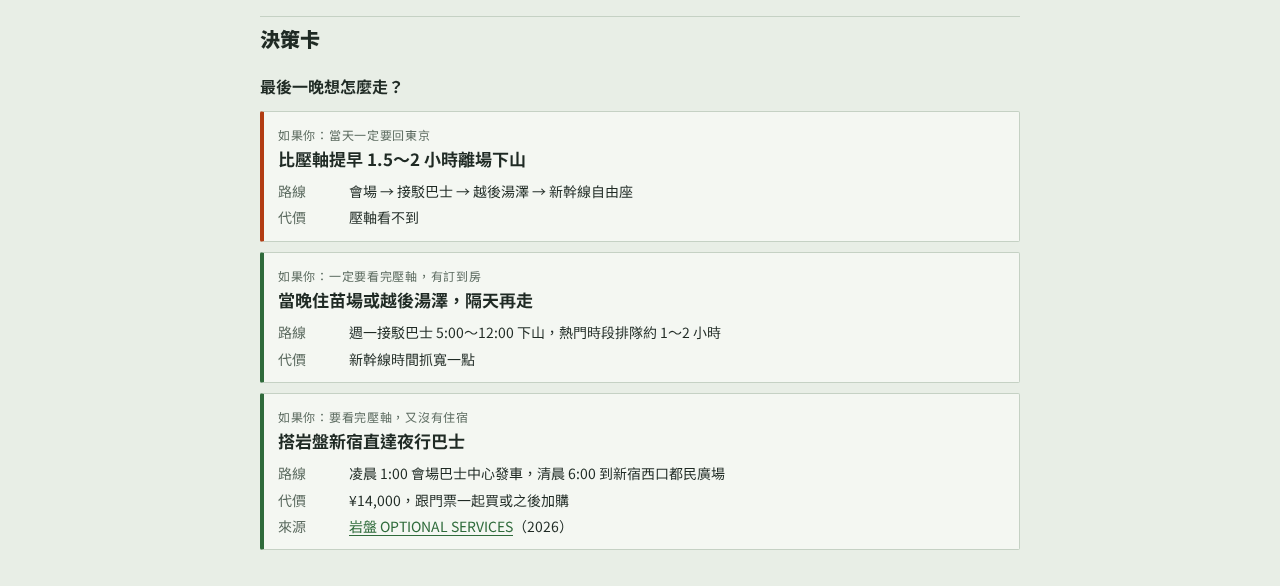
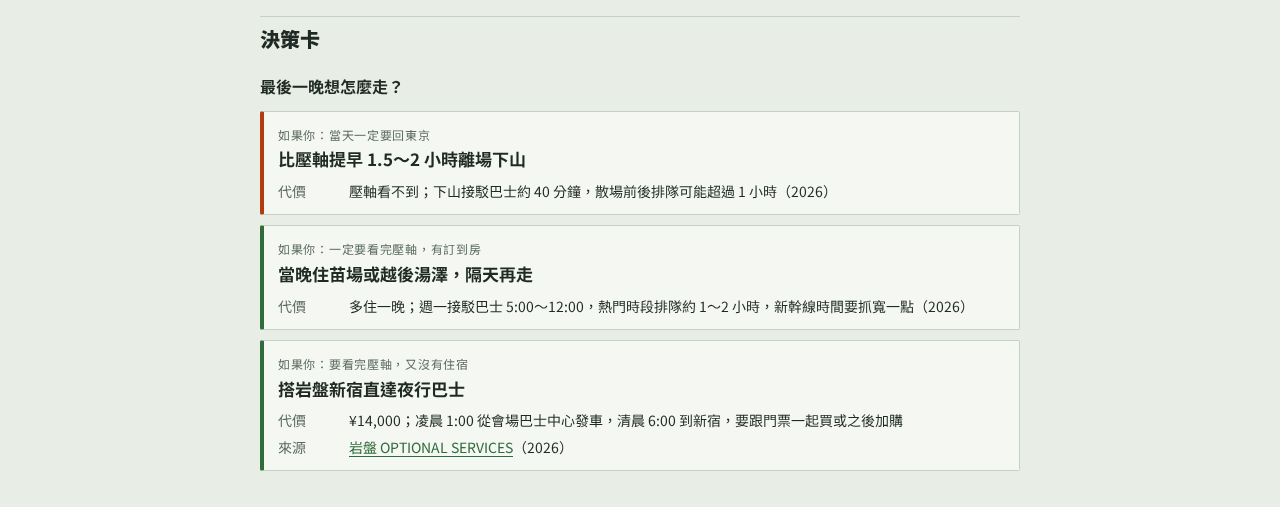
富士搖滾決策卡固定四欄（如果你／怎麼做／代價／來源），naeba-food 寬表格不轉卡片

Changed region(s): [[0.1875, 0.0296, 0.7812, 0.6509], [0.2188, 0.6805, 0.7812, 0.9467]]

diff --git a/docs/frf-rewrite/components.md b/docs/frf-rewrite/components.md
@@ -74,30 +74,39 @@ Notion「標題列」開不開都可以。
 讀者要「選一個」的地方用這個：住哪裡、怎麼回程、要不要買某樣東西。
 取代「好處／要有心理準備／怎麼訂」這種一層包一層的條列。
 
-**欄位**：
+**固定四欄**，表頭一定是這四個（Gina 定案，2026-10-18）：
 
-- 第一欄：如果你是什麼情況（網站會在前面加「如果你：」，所以不用自己寫）。
-- 第二欄：怎麼做。一句話，網站會放大加粗，是卡片的標題。
-- 第三欄以後：自己取欄位名稱，例如「路線」「代價」「要花多少」「怎麼訂」「來源」。空格不會印出來。
-- 記號後面的文字（例如「最後一晚想怎麼走？」）會變成卡片上方的問題。
+| 欄位 | 寫什麼 | 網站上顯示成 |
+| --- | --- | --- |
+| 🧭 如果你 | 讀者的情況，例如「當天一定要回東京」 | 卡片上方的小字「如果你：……」（不用自己寫「如果你」） |
+| 怎麼做 | 一句話的做法 | 卡片標題，放大加粗 |
+| 代價 | 要多花的錢、時間，或會錯過什麼 | 卡片裡的「代價」 |
+| 來源 | 官方連結＋年份，例如「岩盤 OPTIONAL SERVICES（2026）」 | 卡片裡的「來源」 |
 
-**紅色卡片**：第一欄開頭加 `⚠`，這張卡會變成紅色邊框。只用在「不照做會多花錢、會趕不上車」的選項。
+- 第一格的記號後面可以接一個問題，例如「🧭 如果你：最後一晚想怎麼走？」，問題會印在卡片上方。
+- **空格那一項在這張卡上不顯示**。例如沒有官方來源，「來源」空著就好。
+- **紅色卡片**：「如果你」那格開頭加 `⚠`，這張卡會變成紅色邊框。只用在「不照做會多花錢、會趕不上車」的選項。
+- 欄位照表頭名稱對應，四欄的順序寫錯也認得，但請照上面的順序寫，比較好檢查。
+- 標準就是這四欄。如果多加了其他名稱的欄位（例如「路線」），網站還是會顯示（排在代價和來源中間），但請盡量把內容併進「怎麼做」或「代價」。
 
 **Notion 裡這樣寫：**
 
-| 🧭 如果你：最後一晚想怎麼走？ | 怎麼做 | 路線 | 代價 | 來源 |
-| --- | --- | --- | --- | --- |
-| ⚠ 當天一定要回東京 | 比壓軸提早 1.5～2 小時離場下山 | 會場 → 接駁巴士 → 越後湯澤 → 新幹線自由座 | 壓軸看不到 | |
-| 一定要看完壓軸，有訂到房 | 當晚住苗場或越後湯澤，隔天再走 | 週一接駁巴士 5:00～12:00 下山，熱門時段排隊約 1～2 小時 | 新幹線時間抓寬一點 | |
-| 要看完壓軸，又沒有住宿 | 搭岩盤新宿直達夜行巴士 | 凌晨 1:00 會場巴士中心發車，清晨 6:00 到新宿西口都民廣場 | ¥14,000，跟門票一起買或之後加購 | 岩盤 OPTIONAL SERVICES（2026） |
+| 🧭 如果你：最後一晚想怎麼走？ | 怎麼做 | 代價 | 來源 |
+| --- | --- | --- | --- |
+| ⚠ 當天一定要回東京 | 比壓軸提早 1.5～2 小時離場下山 | 壓軸看不到；下山接駁巴士約 40 分鐘，散場前後排隊可能超過 1 小時（2026） | |
+| 一定要看完壓軸，有訂到房 | 當晚住苗場或越後湯澤，隔天再走 | 多住一晚；週一接駁巴士 5:00～12:00，熱門時段排隊約 1～2 小時，新幹線時間要抓寬一點（2026） | |
+| 要看完壓軸，又沒有住宿 | 搭岩盤新宿直達夜行巴士 | ¥14,000；凌晨 1:00 從會場巴士中心發車，清晨 6:00 到新宿，要跟門票一起買或之後加購 | 岩盤 OPTIONAL SERVICES（2026） |
+
+「來源」那格的名稱要做成 Notion 連結。
 
 **寫作提醒**
 
 - 一張決策卡兩到四個選項。超過四個，先想想是不是兩個問題混在一起。
-- 每個選項都寫「代價」或「要注意」，讀者才知道取捨在哪。
-- 各欄位的名稱在每張卡都一樣，讀者滑過去就能比較。
+- 「怎麼做」一句話就好，細節放「代價」。
+- 每個選項都寫「代價」，讀者才知道取捨在哪。
+- 代價裡的金額、時刻一樣附年份。
 
-截圖：`screenshots/layout/11-choice-cards-after-mobile.png`
+截圖：`screenshots/layout/11-choice-cards-after-mobile.png`、`screenshots/layout/11-choice-cards-after-desktop.png`
 
 ---
 
@@ -144,6 +153,10 @@ Notion「標題列」開不開都可以。
 - 第一欄請放「這一列是什麼」（住宿名稱、營區名稱、品項），卡片標題才看得懂。
 - 欄位名稱要短（四個字以內最好），手機上的標籤欄寬度有限。
 - 三欄以下的表格（例如預算表）在手機上本來就放得下，不會改。
+
+**不轉卡片的文章**：`naeba-food`（苗場美食）的表格在手機上維持原本的表格，不轉卡片，之後會換別的呈現方式。
+名單寫在程式裡（`src/lib/rehype-frf-components.mjs` 的 `NO_STACK_SLUGS`），Notion 不用做任何事。
+要加其他文章請跟網站端說，把 slug 加進名單。名單裡的文章，有記號的元件表格（💰、🧭、🕒）照樣會轉。
 
 截圖：`screenshots/layout/14-stack-table-hotels-after-mobile.png`
 

diff --git a/scripts/fixtures/frf-components-demo.md b/scripts/fixtures/frf-components-demo.md
@@ -30,11 +30,11 @@ updated: 2026-10-18
 
 ## 決策卡
 
-| 🧭 如果你：最後一晚想怎麼走？ | 怎麼做 | 路線 | 代價 | 來源 |
-| --- | --- | --- | --- | --- |
-| ⚠ 當天一定要回東京 | 比壓軸提早 1.5～2 小時離場下山 | 會場 → 接駁巴士 → 越後湯澤 → 新幹線自由座 | 壓軸看不到 |  |
-| 一定要看完壓軸，有訂到房 | 當晚住苗場或越後湯澤，隔天再走 | 週一接駁巴士 5:00～12:00 下山，熱門時段排隊約 1～2 小時 | 新幹線時間抓寬一點 |  |
-| 要看完壓軸，又沒有住宿 | 搭岩盤新宿直達夜行巴士 | 凌晨 1:00 會場巴士中心發車，清晨 6:00 到新宿西口都民廣場 | ¥14,000，跟門票一起買或之後加購 | [岩盤 OPTIONAL SERVICES](https://ganban.net/?p=78374)（2026） |
+| 🧭 如果你：最後一晚想怎麼走？ | 怎麼做 | 代價 | 來源 |
+| --- | --- | --- | --- |
+| ⚠ 當天一定要回東京 | 比壓軸提早 1.5～2 小時離場下山 | 壓軸看不到；下山接駁巴士約 40 分鐘，散場前後排隊可能超過 1 小時（2026） |  |
+| 一定要看完壓軸，有訂到房 | 當晚住苗場或越後湯澤，隔天再走 | 多住一晚；週一接駁巴士 5:00～12:00，熱門時段排隊約 1～2 小時，新幹線時間要抓寬一點（2026） |  |
+| 要看完壓軸，又沒有住宿 | 搭岩盤新宿直達夜行巴士 | ¥14,000；凌晨 1:00 從會場巴士中心發車，清晨 6:00 到新宿，要跟門票一起買或之後加購 | [岩盤 OPTIONAL SERVICES](https://ganban.net/?p=78374)（2026） |
 
 ## 時間軸
 
